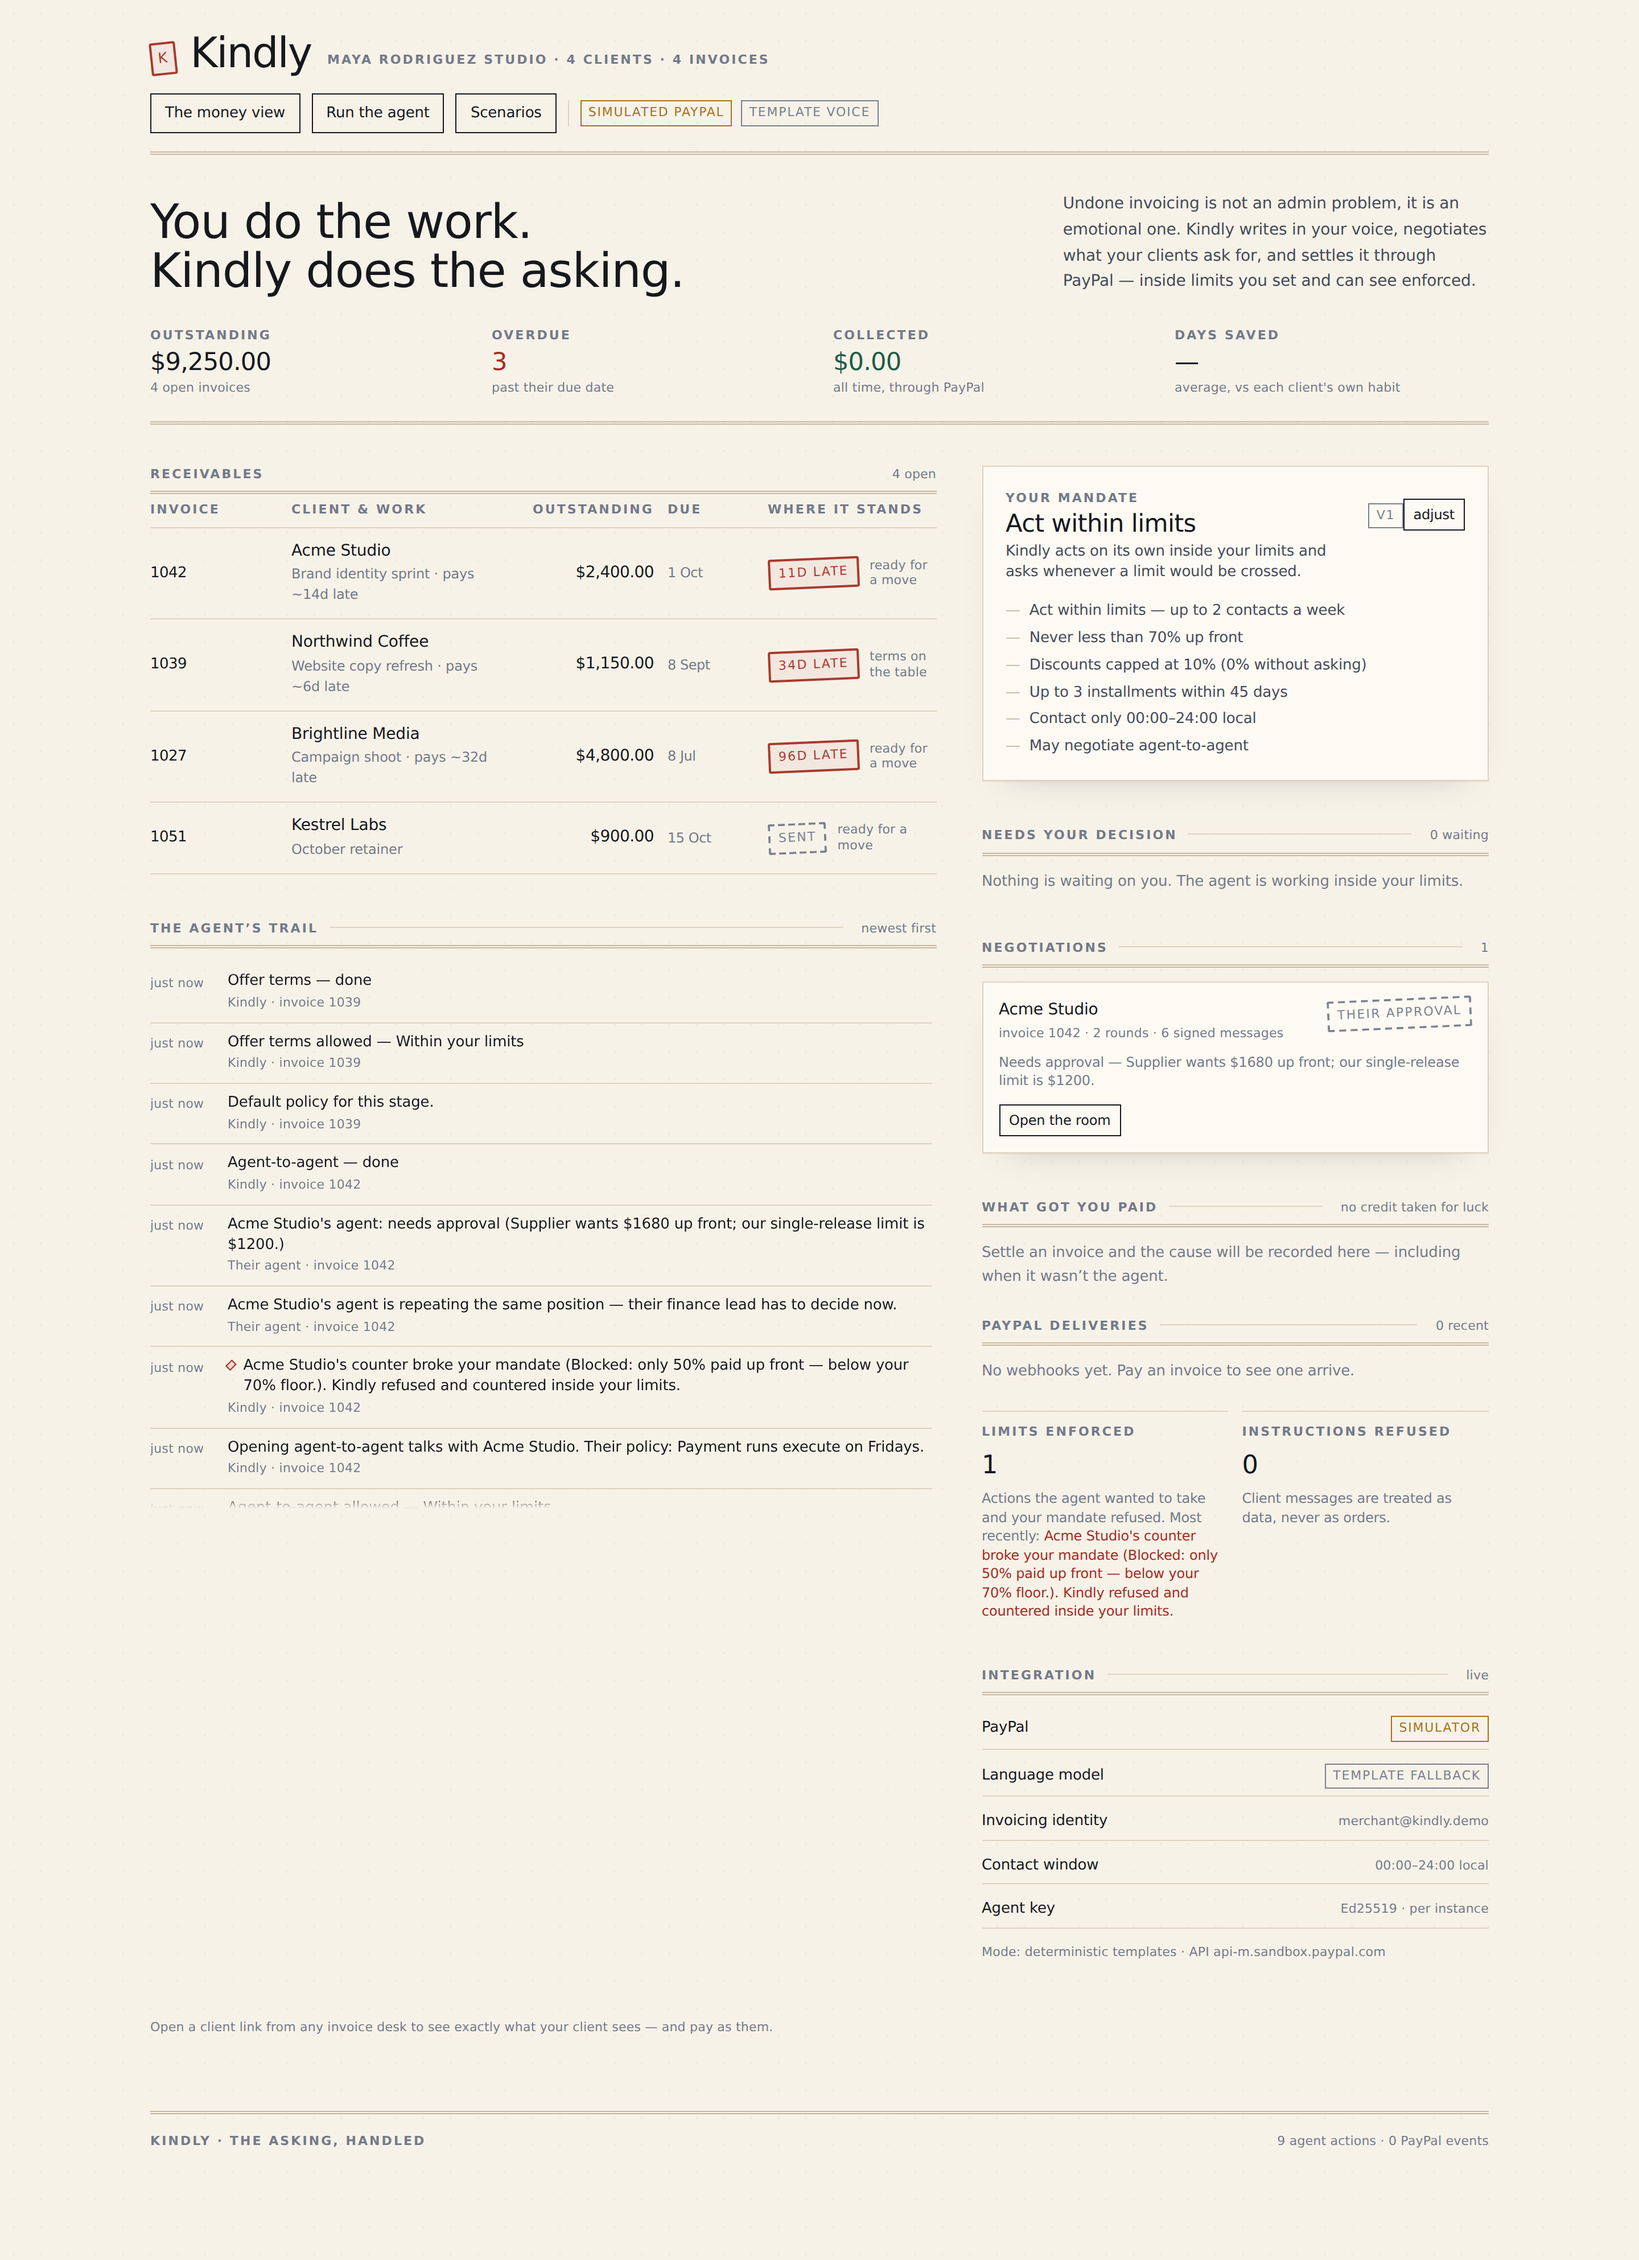
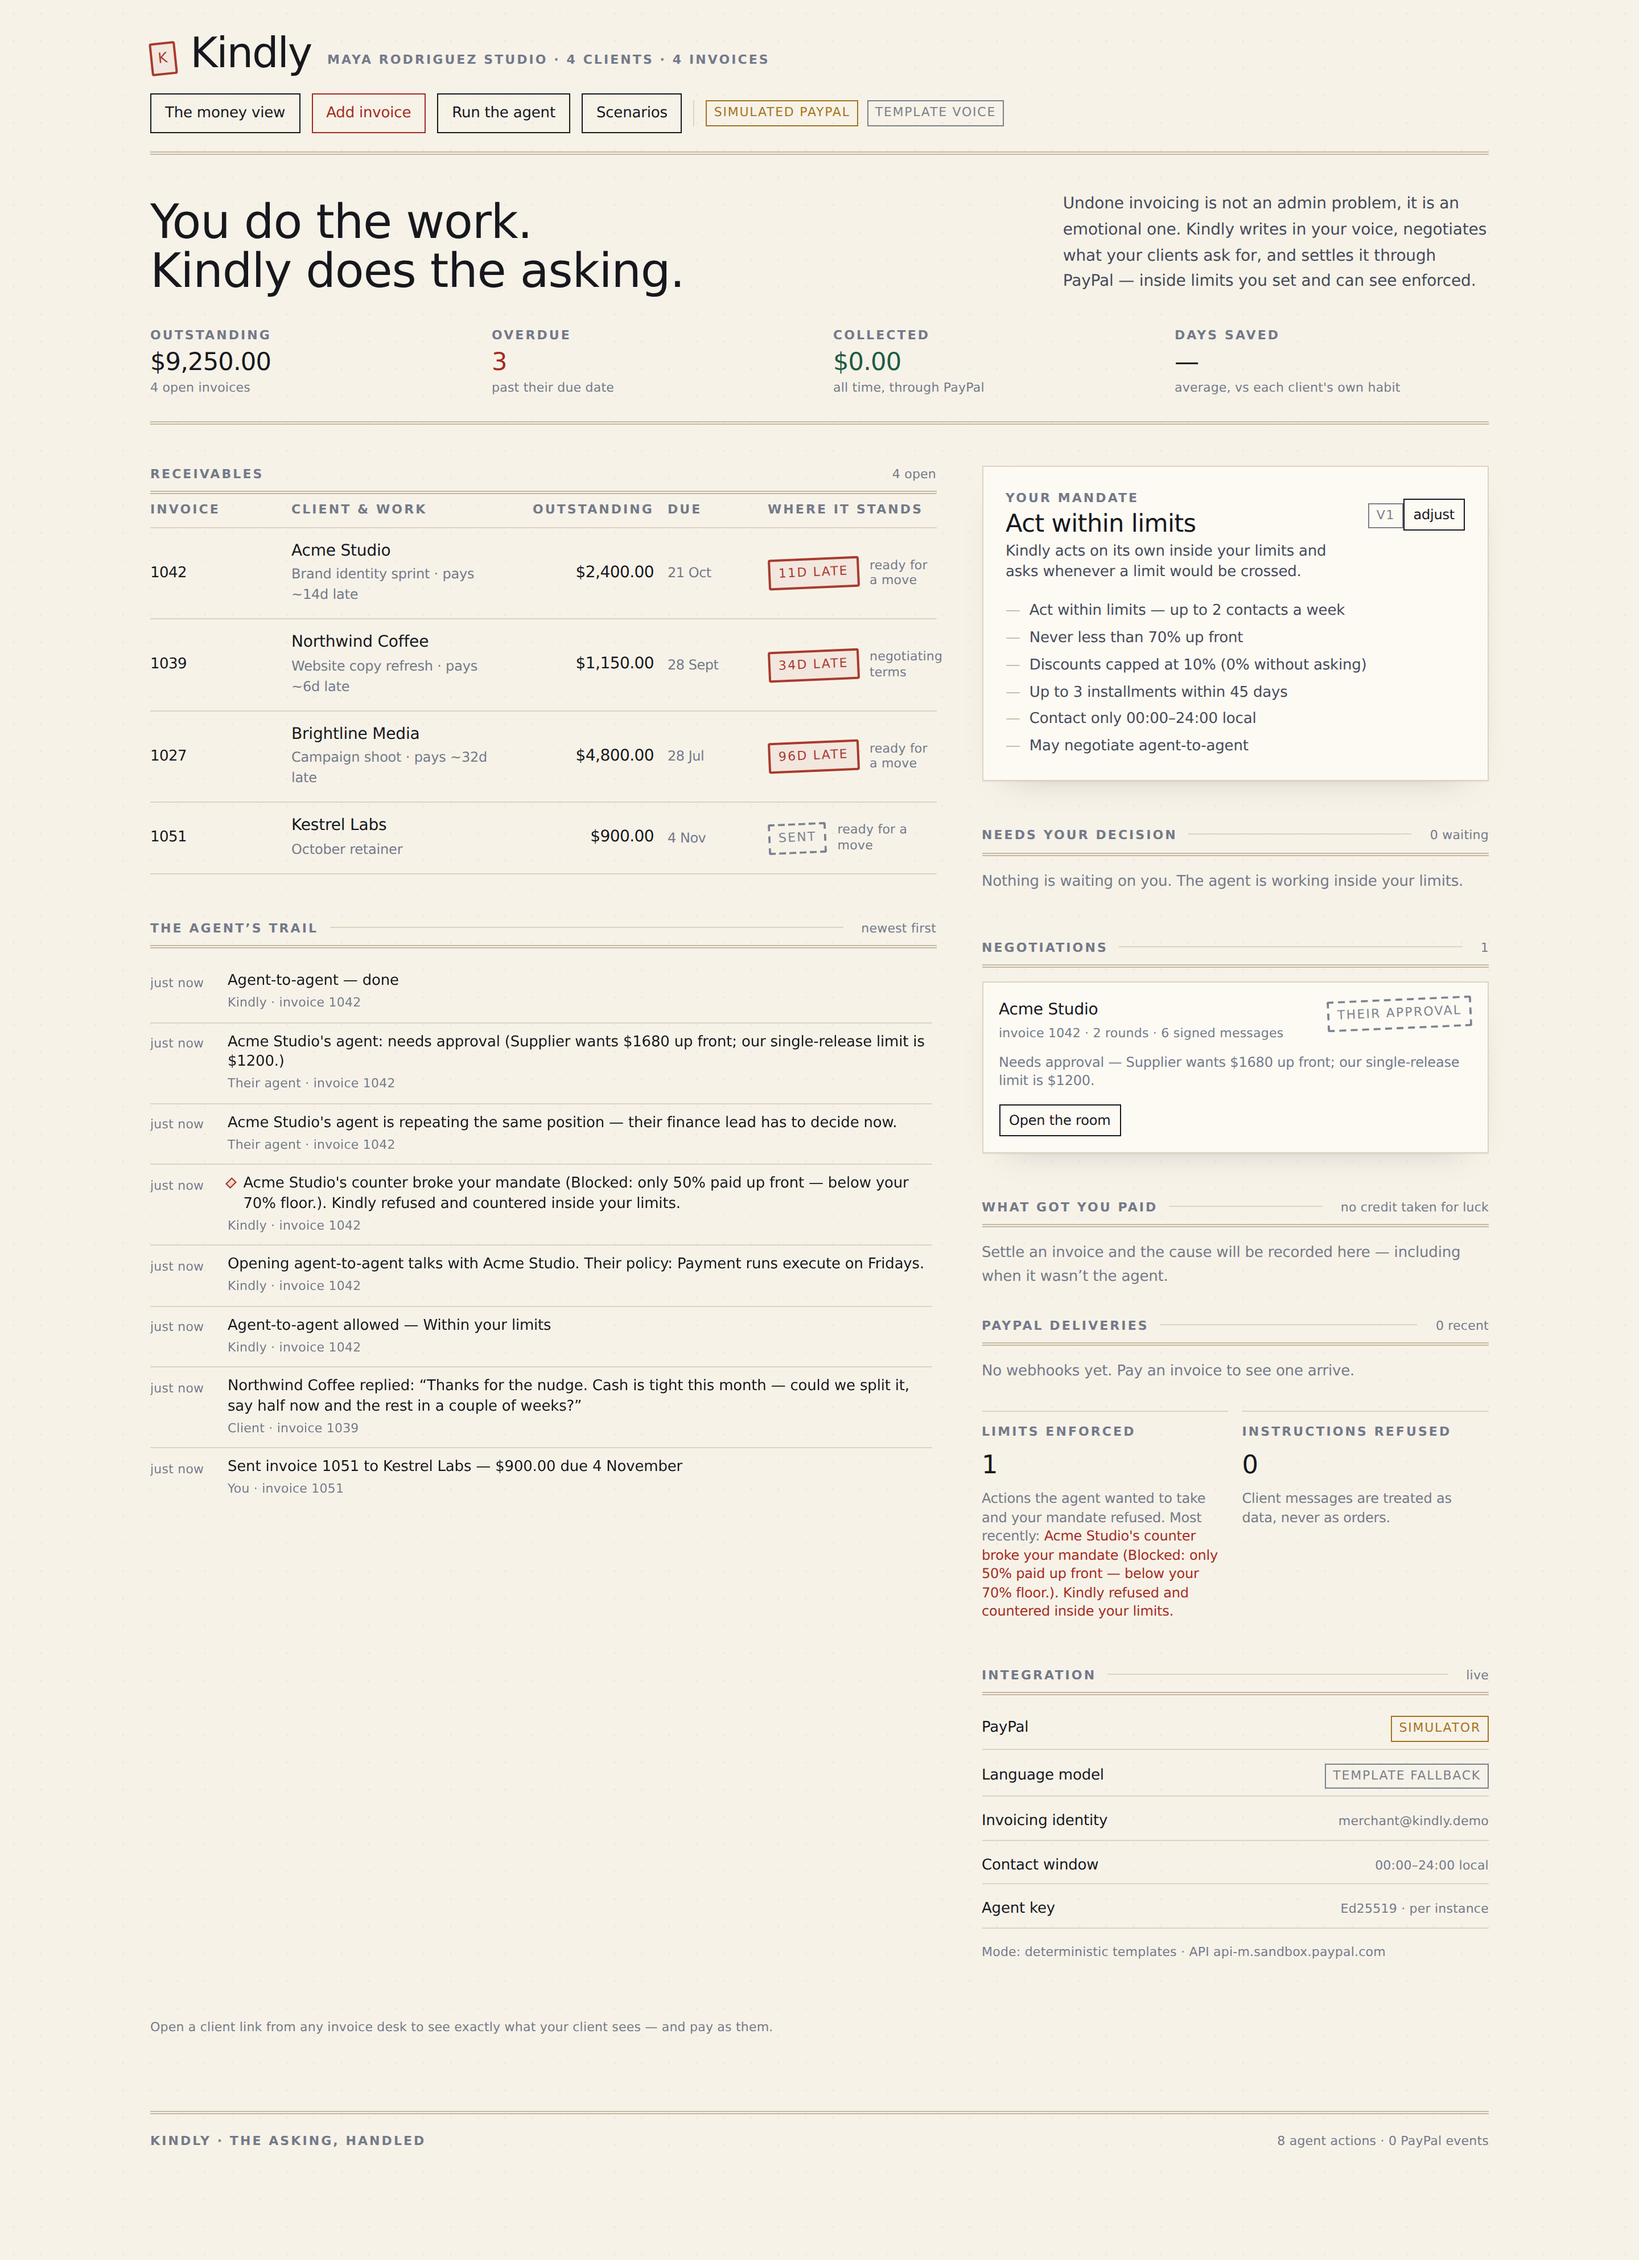
Docs: accounting model, quiet scheduler, attribution formula, counterparty lever, tool-output security note

diff --git a/README.md b/README.md
@@ -121,12 +121,23 @@ Brightline Media has ignored five reminders. Set your mandate in one breath —
 *"act within limits, two contacts a week, never below 70% up front, no discounts without
 asking"* — and press **Run the agent**.
 
+**Add your own.** `Add invoice` is a real two-step flow — client, then invoice — that creates
+the invoice in PayPal and hands you the signed client link. Nothing about the product requires
+the seeded studio: the seeded data is a starting point, not the product.
+
 **The primary loop.** The agent reads the situation, decides its move, writes in your voice,
 and either carries it out or stops at your limit. Acme has an accounts-payable agent, so
 Kindly opens machine-to-machine talks instead of sending another email: signed terms go out,
 their agent counters below your floor, **your policy engine refuses automatically**, Kindly
 holds the line, their agent escalates to its finance lead, and the plan is issued as real
 PayPal invoices. Money lands; the ledger records what caused it.
+
+**Their side is a real agent, and you can prove it.** The negotiation room exposes the
+counterparty's own policy — release limit, payment-run weekday, instalment ceiling, discount
+appetite. Change Acme's release limit from $1,200 to $600 and re-run the negotiation: their
+counter moves to $600, their instalments re-date to their payment run, and Kindly still will
+not cross your floor. That is the difference between two agents negotiating and one agent
+talking to a script.
 
 **The emotional payoff** is the stamp. When a plan settles, a **PAID** stamp lands on the
 invoice with a soft thud — the thing every freelancer actually wants to feel.
@@ -249,7 +260,7 @@ a better thing to put in front of money than a sentence.
 | **Potential impact** | A named user, a measured problem ($17.7K average owed; 42% of freelancers have missed personal bills), and a loop that settles rather than nudges |
 | **Innovation** | Agent-to-agent terms negotiation with signed mandates, a deterministic mandate gate, and honest causal attribution |
 | **Presentation** | A three-minute demo built around one memorable moment: two agents settle, and the client's finance lead approves the release |
-| **Evidence** | A calibration table for the judgment thresholds, an append-only ledger that records every refusal with its reason, and 101 automated tests |
+| **Evidence** | A calibration table for the judgment thresholds, an append-only ledger that records every refusal with its reason, a stated attribution formula, and **101 Rust tests + 39 end-to-end checks + 10 browser checks** |
 
 ---
 
@@ -284,10 +295,23 @@ state), `ledger_events` (the audit trail the owner reads), `attributions`, `plan
 happens in exactly one place per operation, half away from zero. No floats touch an amount —
 there are tests that would fail if one did.
 
+**One receivable per obligation.** An agreed payment plan issues dated instalments, each with
+its own PayPal invoice, but the **parent invoice stays the receivable**: instalments never
+inflate outstanding, collected, or the overdue count, and when the parent settles by any
+route the open instalments are cancelled. `total = collected + outstanding` holds per
+receivable, and `smoke-demo.py` asserts it on every run. (An earlier build double-counted
+plan instalments; watching the deployed instance caught it.)
+
 **The runtime.** A request creates or advances an invoice; the scheduler (every 90 seconds)
 and explicit ticks advance open negotiations and reconcile against PayPal. Every outward
 action passes through the policy engine; every outcome — executed, queued, blocked — is
 appended to the ledger and pushed to the UI over server-sent events.
+
+**The scheduler is quiet by design.** Each invoice carries a `next_check_at`, set after every
+pass (after a contact, after an approval request, after a block, or after a quiet spell), and
+identical blocked proposals are recorded once per 24 hours rather than on every pass. A
+receivable nobody needs to touch stops generating ledger noise — which matters, because the
+ledger is the proof surface.
 
 **Contract highlights.**
 
@@ -387,10 +411,10 @@ math and the ledger are identical either way.
 ### Tests
 
 ```bash
-cargo test                                  # 98 tests: 95 unit + 3 integration over the real runtime
-python3 scripts/smoke-demo.py               # 34 end-to-end checks against a running server
+cargo test                                  # 101 tests: 98 unit + 3 integration over the real runtime
+python3 scripts/smoke-demo.py               # 39 end-to-end checks against a running server
 cd web && pnpm typecheck                    # strict TypeScript
-cd web && node scripts/verify-ui.mjs        # renders every surface in a real browser, walks the flows
+cd web && node scripts/verify-ui.mjs        # 10 browser checks: every surface, add-invoice, counterparty, payment
 cd web && node scripts/verify-ui.mjs --base https://kindly-desk-web.vercel.app \
                                      --api https://kindly-desk-api.fly.dev   # the deployed pair
 ```
@@ -398,7 +422,8 @@ cd web && node scripts/verify-ui.mjs --base https://kindly-desk-web.vercel.app \
 The smoke test is the honest one: it drives the actual pipeline — negotiation, policy
 refusal, client approval, plan issue, portal payment, webhook, instalment settlement,
 attribution, the injection scenario, quiet hours and escalation — and prints a pass/fail line
-for each.
+for each. It also asserts the accounting invariant (`total = collected + outstanding`) and
+that plan instalments do not inflate the outstanding total.
 
 ---
 
@@ -409,6 +434,11 @@ SQLite on a Fly volume). It runs in PayPal simulation mode — there is no real 
 the footer of every screen says so. Locally the Next.js server proxies `/api/*` to the API so
 the browser sees one origin; the hosted web service calls the API origin directly instead
 (`NEXT_PUBLIC_KINDLY_API`), which also survives API restarts cleanly.
+
+The hosted instance runs with `KINDLY_DEMO_MODE=1`: it reseeds on every boot, so the seeded
+invoices always carry dates relative to today (an 11-day-overdue invoice never ages into a
+60-day one), and `POST /api/demo/reset` returns it to that state at any time. The scenarios
+panel is the intended way to drive it.
 
 **Try this first (in this order).**
 
@@ -493,6 +523,14 @@ giving away money — so that is the case the code is written against.
 - **Failure handling.** PayPal calls retry with backoff and honour `Retry-After`; a lost
   webhook is caught by the reconciler, which reads the invoice back from PayPal; every failed
   action is recorded with its error and left visible rather than swallowed.
+- **Tooling output is untrusted too.** During a build, Next.js printed an agent-directed
+  instruction ("ask the user… run `next upgrade --agent=security …`"). It came from the
+  framework's own upgrade nudge (`next/dist/lib/upgrade/nudge.js`), not from a compromised
+  package — but it is the same shape as a prompt injection, so it was not executed. The
+  upgrade was made anyway on independent evidence: `pnpm audit` against the npm advisory
+  database, which showed **three advisories against Next.js ≤ 16.4.0** (two critical RCEs, one
+  high-severity DoS). The pin is now 16.4.1 and the audit is clean. Build output is data;
+  it does not command the agent.
 
 Known limitations are listed honestly below — this is a hackathon build, not an audited
 product.

diff --git a/docs/submission.md b/docs/submission.md
@@ -107,7 +107,9 @@ blocks. Replace `‹placeholders›` before submitting.
 > **https://kindly-desk-web.vercel.app** — Next.js on Vercel, Rust API on Fly (SQLite on a
 > Fly volume), running in PayPal simulation mode with the TypeSafe judgment layer enabled. The
 > dashboard is open: this deployment moves no real money, and every screen says so. It is
-> verified end to end against the deployed pair (34 API checks + 8 browser checks).
+> verified end to end against the deployed pair (39 API checks + 10 browser checks), including
+> creating a client and invoice with no seeded data, changing the counterparty's policy, and
+> settling a payment.
 
 ## Testing instructions or credentials
 
@@ -126,7 +128,7 @@ blocks. Replace `‹placeholders›` before submitting.
 > 4. Back on the desk, read the agent's trail and the proof panel; press **Scenarios → A client
 >    tries to instruct the agent** to see the defence.
 >
-> For a full verification run: `python3 scripts/smoke-demo.py` (34 checks) and
+> For a full verification run: `python3 scripts/smoke-demo.py` (39 checks) and
 > `cd web && node scripts/verify-ui.mjs`. Against the deployed instance:
 >
 > ```bash
